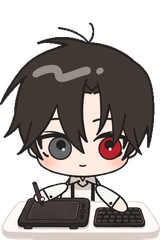
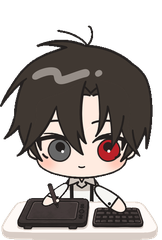
update v1786964693

diff --git a/mascot.py b/mascot.py
@@ -4253,6 +4253,7 @@ class Mascot:
         self._self_cup_at = 0.0      # 본인 컵케이크를 먹은 시각 (10분에 1번)
         self._soft_cache = {}        # 매끈한 원·그림자 그림 (상한 있음)
         self._room_dxc = {}          # 방 그림의 책상 중심 치우침 (slot,tag)→px
+        self._room_meta_h = {}       # 방 그림의 머리선 캐시 (slot → 0~1)
         self._mq_img = None          # 지금 프레임의 마퀴 그림
         self._room_song_slots = set()  # 노래가 걸린 카드 (음표 연출용)
         self._bubble_born = 0.0      # 지금 말풍선이 뜬 시각 (톡 등장용)
@@ -14537,6 +14538,21 @@ class Mascot:
         self._room_meta[slot] = v
         return v
 
+    def _room_headline(self, slot):
+        """그림에서 머리가 끝나는 높이 (0~1). 모르면 None (옛 배포본)."""
+        if slot in self._room_meta_h:
+            return self._room_meta_h[slot]
+        v = None
+        p = self._room_art_file(slot, "seat_meta.json")
+        if p:
+            try:
+                with open(p, encoding="utf-8") as fp:
+                    v = float(json.load(fp).get("head"))
+            except Exception:
+                v = None
+        self._room_meta_h[slot] = v
+        return v
+
     def _room_img(self, slot, tag):
         """방에 그릴 그림 — (몸, 책상) 두 조각. 아직 없으면 None.
 
@@ -14584,21 +14600,26 @@ class Mascot:
                     round(im.width / 2 - (bb2[0] + bb2[2]) / 2) if bb2 else 0)
             except Exception:
                 self._room_dxc[(slot, tag)] = 0
-            if line and 0.2 < line < 0.95:
-                # 몸은 통짜로 두고, 책상 조각을 그 위에 고정으로 덮는다.
-                # 몸을 잘라 올리면 잘린 자리가 그대로 드러난다 (실제로 겪음).
+            hline = self._room_headline(slot)
+            if hline and 0.05 < hline < 0.9:
+                # 머리/몸 분리 — 전신은 고정하고 머리 조각만 숨쉬게 한다.
+                # 머리 조각은 목 아래로 살짝 겹쳐 잘라, 위로 떠도 틈이 없다.
+                lap = int(4 * self._room_k())
+                hcut = min(h, int(h * hline) + lap)
+                pair = (ImageTk.PhotoImage(im.crop((0, 0, im.width, hcut))),
+                        ImageTk.PhotoImage(im), h, "head")
+            elif line and 0.2 < line < 0.95:
+                # 옛 배포본(머리선 없음) — 몸이 숨쉬고 책상 조각이 위에 덮는다.
                 cut = int(h * line)
-                # 몸이 숨쉬며 오르내릴 때(±1.6k) 흰 테두리가 이음새로
-                # 드러나지 않게 책상 조각을 살짝만 위로 겹친다. 크게 겹치면
-                # 그 띠 안의 몸 그림이 붙박이가 돼 '잘린 선'으로 보인다
-                # (연어 제보 — 8k였을 때).
+                # 겹침은 숨쉬기 진폭만 가릴 만큼만 (크면 잘린 선으로 보인다 —
+                # 연어 제보, 8k였을 때)
                 lap = int(3 * self._room_k())
                 cut2 = max(0, cut - lap)
                 pair = (ImageTk.PhotoImage(im),
                         ImageTk.PhotoImage(im.crop((0, cut2, im.width, h))),
-                        h - cut2)
+                        h - cut2, "desk")
             else:
-                pair = (ImageTk.PhotoImage(im), None, 0)
+                pair = (ImageTk.PhotoImage(im), None, 0, "desk")
         except Exception:
             self._room_art_bad.add(slot)
             return None
@@ -15963,8 +15984,8 @@ class Mascot:
                  width=3 if picked else 2)
         got = self._room_img(slot, self._room_pose(p))
         if got is not None:
-            body, desk, cut = got
-            # 숨쉬듯 아주 살짝. 움직이는 것은 몸뿐이고 책상은 고정이다.
+            body, over, cut, mode = got
+            # 숨쉬듯 아주 살짝 — 머리 조각(있으면)만 들썩이고 몸·책상은 고정
             bob = math.sin(time.time() * 1.7 + hash(slot) % 7) * (1.6 * k)
             if sleeping:
                 bob *= 0.6
@@ -15972,21 +15993,30 @@ class Mascot:
             pose = self._room_pose(p)
             cx = (kx0 + kx1) / 2 + self._room_dxc.get(
                 (slot, pose), self._room_dxc.get((slot, "seat"), 0))
-            item = cv.create_image(cx, base + bob, image=body, anchor="s",
-                                   tags="dyn")
-            ditem = None
-            if desk is not None:
-                # 책상을 나중에 그려 위에 덮는다 — 뒤에서 몸이 움직여도
-                # 책상은 붙박이고 이음매도 안 보인다.
-                ditem = cv.create_image(cx, base, image=desk, anchor="s",
+            if mode == "head" and over is not None:
+                # body = 머리 조각(움직임), over = 전신(고정)
+                ditem = cv.create_image(cx, base, image=over, anchor="s",
                                         tags="dyn")
+                reg = base - over.height() + body.height()
+                item = cv.create_image(cx, reg + bob, image=body, anchor="s",
+                                       tags="dyn")
+            else:
+                reg = base
+                item = cv.create_image(cx, base + bob, image=body, anchor="s",
+                                       tags="dyn")
+                ditem = None
+                if over is not None:
+                    # 책상을 나중에 그려 위에 덮는다 — 뒤에서 몸이 움직여도
+                    # 책상은 붙박이고 이음매도 안 보인다.
+                    ditem = cv.create_image(cx, base, image=over, anchor="s",
+                                            tags="dyn")
             if float(p.get("p") or 0) >= 1.0:
                 # 목표를 다 채운 사람 — 남들 화면에서도 축하 모습으로
                 self._safe("room_party", self._room_party_draw,
                            cv, slot, pose, cx, base + bob, k, col)
             if not off:
                 # 안 켠 사람은 숨쉬지 않는다 — 켜 있는 사람과 구분이 된다
-                self._room_body.append((item, ditem, slot, base, sleeping,
+                self._room_body.append((item, ditem, slot, reg, sleeping,
                                         pose))
         else:
             cv.create_oval((kx0 + kx1) / 2 - 26 * k, floor - 56 * k,
